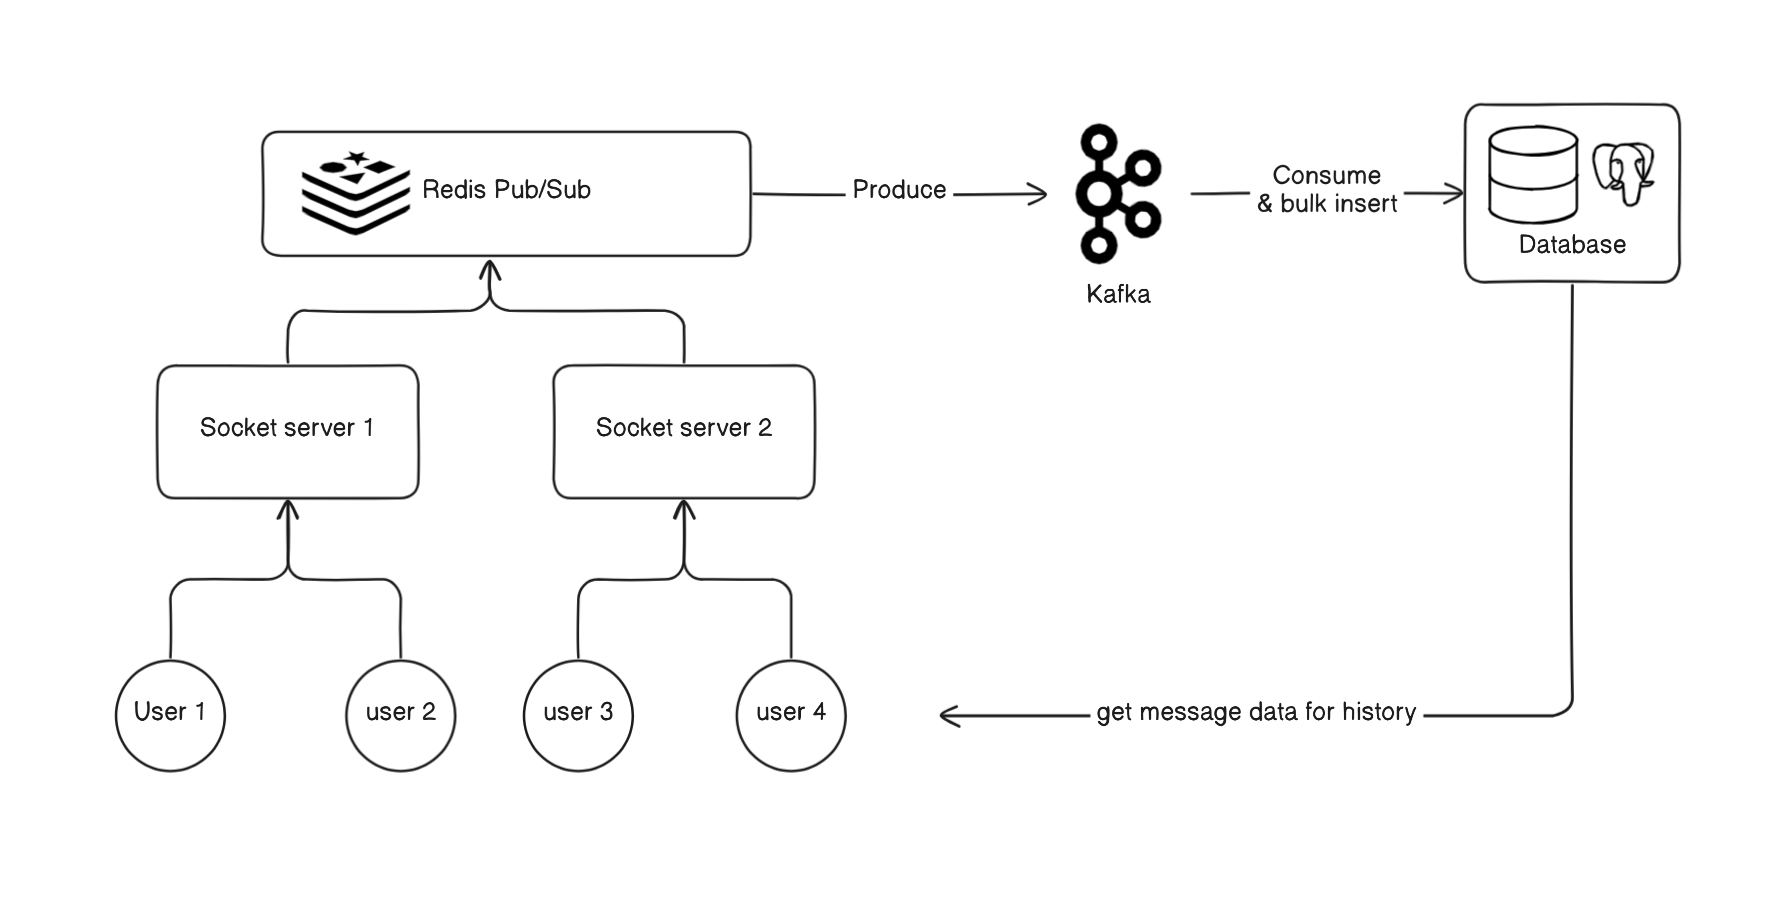
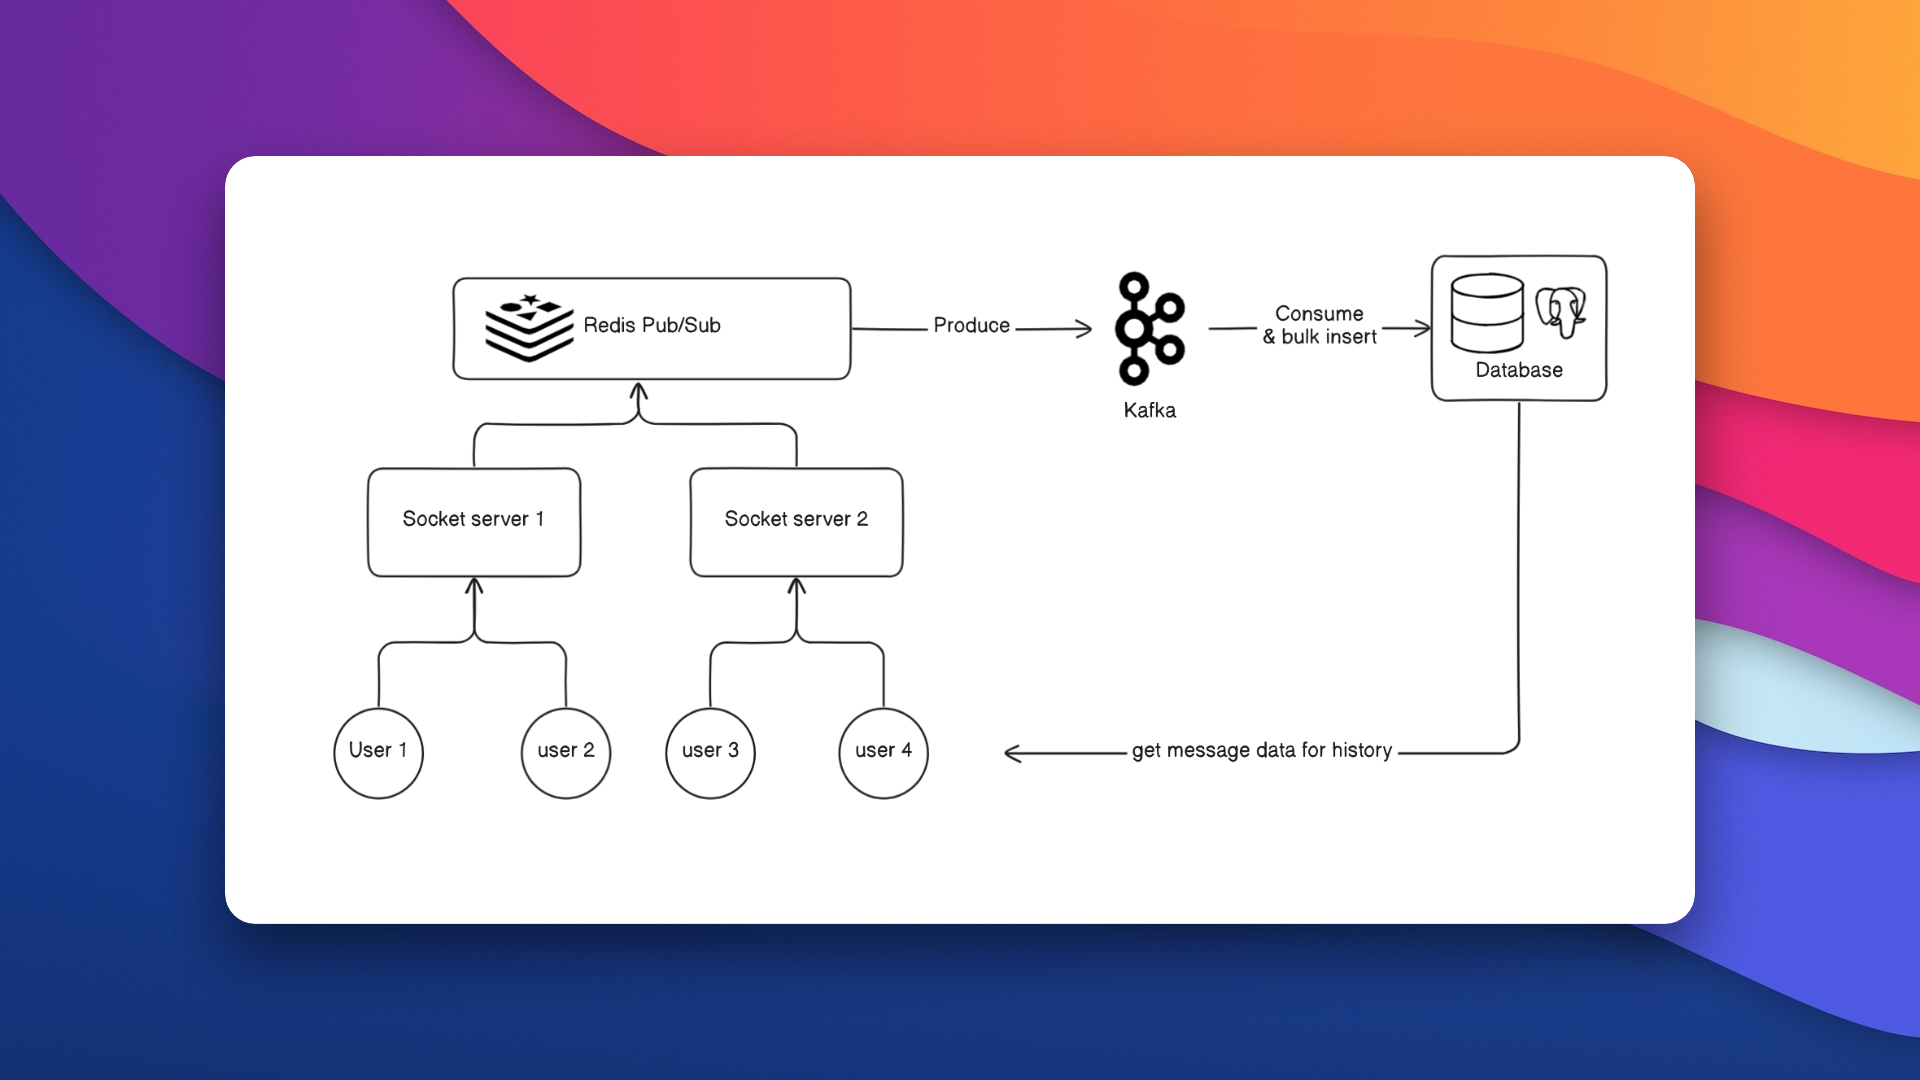
added new projects

diff --git a/content/_index.md b/content/_index.md
@@ -23,6 +23,15 @@ Hi, I’m Harish, a DevOps and Backend Engineer.
 >}}
 What Do I bring to the table?
 {{< /typeit >}}
+<h3 align="left">🔧 Backend Systems</h3>
+<p align="left">I design and build robust APIs, CLI tools and backend systems using Go, tailored for performance and scalability.</p>
+{{< gallery >}}
+  <img src="./go.svg" class="grid-w10 md:grid-w10 xl:grid-w10" />
+  <img src="./postgres.svg" class="grid-w10 md:grid-w10 xl:grid-w10" />
+  <img src="./kafka.svg" class="grid-w10 md:grid-w10 xl:grid-w10" />
+  <img src="./redis.svg" class="grid-w10 md:grid-w10 xl:grid-w10" />
+  <img src="./git.svg" class="grid-w10 md:grid-w10 xl:grid-w10" />
+{{< /gallery >}}
 <h3 align="left">🚀 End-to-End DevOps</h3>
 <p align="left">I manage the entire DevOps lifecycle—from architecting scalable cloud infrastructures on AWS and GCP to automating deployments with tools like Terraform, Ansible, and Helm Charts. Whether it's setting up CI/CD pipelines with Jenkins, ArgoCD, or GitLab CI/CD, I streamline workflows to let teams focus on innovation.</p>
 {{< gallery >}}
@@ -37,17 +46,6 @@ What Do I bring to the table?
 <img src="./gitlab.svg" class="grid-w10 md:grid-w10 xl:grid-w10" />
 <img src="./actions.svg" class="grid-w10 md:grid-w10 xl:grid-w10" />
 {{< /gallery >}}
-
-<h3 align="left">💡 Backend Systems</h3>
-<p align="left">I design and build robust APIs, CLI tools and backend systems using Go, tailored for performance and scalability.</p>
-{{< gallery >}}
-  <img src="./go.svg" class="grid-w10 md:grid-w10 xl:grid-w10" />
-  <img src="./postgres.svg" class="grid-w10 md:grid-w10 xl:grid-w10" />
-  <img src="./kafka.svg" class="grid-w10 md:grid-w10 xl:grid-w10" />
-  <img src="./redis.svg" class="grid-w10 md:grid-w10 xl:grid-w10" />
-  <img src="./git.svg" class="grid-w10 md:grid-w10 xl:grid-w10" />
-{{< /gallery >}}
-
 
 <h3 align="left">📈 Scaling</h3>
 <p align="left">Skilled in deploying, managing, and optimizing Kubernetes clusters, I leverage the Kubernetes ecosystem to build and scale cloud-native applications efficiently.</p>
@@ -74,7 +72,7 @@ What Do I bring to the table?
             <td rowspan=3><a href="https://rava.ai" target="_blank">Rava AI</a></td>
         </tr>
         <tr>
-            <td>DevOps Consultant</td>
+            <td>DevOps Engineer</td>
             <td>September 2024 - Present</td>
             <td rowspan=2>Fully Remote, San Francisco, CA</br></td>
         </tr>

diff --git a/content/coding/index.md b/content/coding/index.md
@@ -19,8 +19,13 @@ Watch on
 
 {{< timeline >}}
 
-{{< timelineItem icon="youtube" header="Scale Mesh: A better Vercel alternative" badge="Go" subheader="" >}}
-{{< youtubeLite id="OGUgLcy_YS0" label="Scale Mesh" >}}
+{{< timelineItem icon="youtube" header="Multi-threaded Proxy server " badge="Go" subheader="" >}}
+{{< youtubeLite id="7NFOJhJmL60" label="Scale Mesh" >}}
+{{< github repo="harisheoran/multi-threaded-proxy-server" >}}
+{{< /timelineItem >}}
+
+{{< timelineItem icon="youtube" header="Kubernetes Deployment" badge="k8s" subheader="" >}}
+{{< youtubeLite id="kc3xqzvN7DA" label="Scale Mesh" >}}
 {{< gitlab projectID="62119438" >}}
 {{< /timelineItem >}}
 
@@ -28,11 +33,9 @@ Watch on
 {{< youtubeLite id="OGUgLcy_YS0" label="Scale Mesh" >}}
 {{< gitlab projectID="62119438" >}}
 {{< /timelineItem >}}
-
 
 {{< timelineItem icon="github" header="AWS Cost Optimization using Lambda." badge="Go" subheader="" >}}
 {{< youtubeLite id="K_JSu2qWrns" label="AWS Cost Optimization using Lambda." >}}
-
 {{< github repo="harisheoran/aws_cost_optimization" >}}
 {{< /timelineItem >}}
 

diff --git a/content/projects/multithreaded-proxy-web-server/index.md b/content/projects/multithreaded-proxy-web-server/index.md
@@ -38,6 +38,7 @@ It is a multi-threaded forward proxy server built in Go.
 ## 🛠 Setup & Run
 ### Clone the repository
 ``` git clone <repository-url> ```
+
 ``` cd multithreaded-proxy-web-server ```
 
 ### Install Go dependencies

diff --git a/content/projects/my-chat-system/index.md b/content/projects/my-chat-system/index.md
@@ -13,7 +13,7 @@ Introducing Chat System Enterprise, a cutting-edge, on-premises chat application
 {{< github repo="harisheoran/my-chat-system" >}}
 
 ## Architectue
-![](./featured.png)
+![](./arch.png)
 
 ## **Product Description**
 
